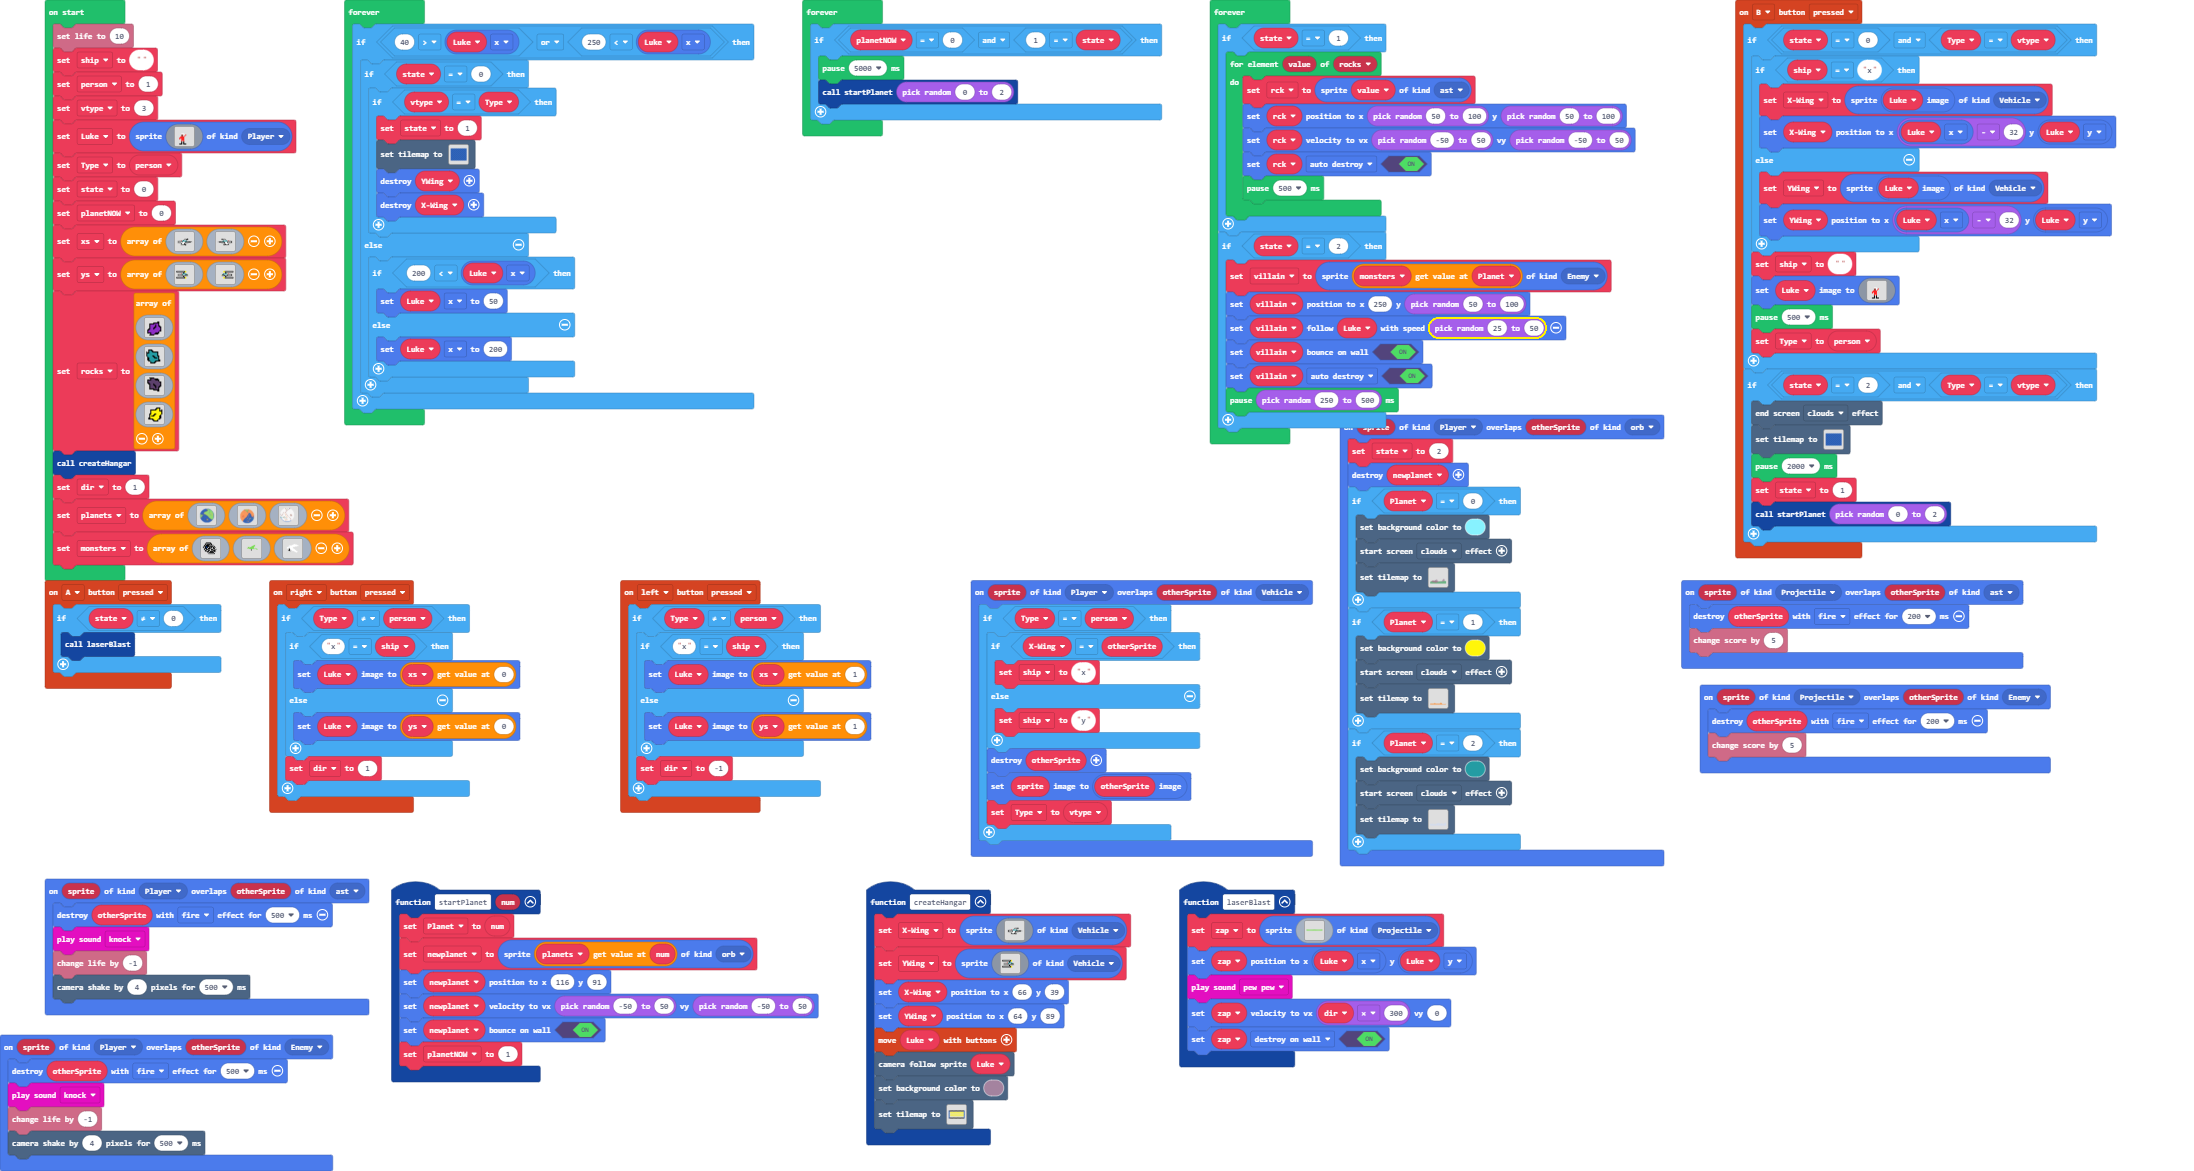
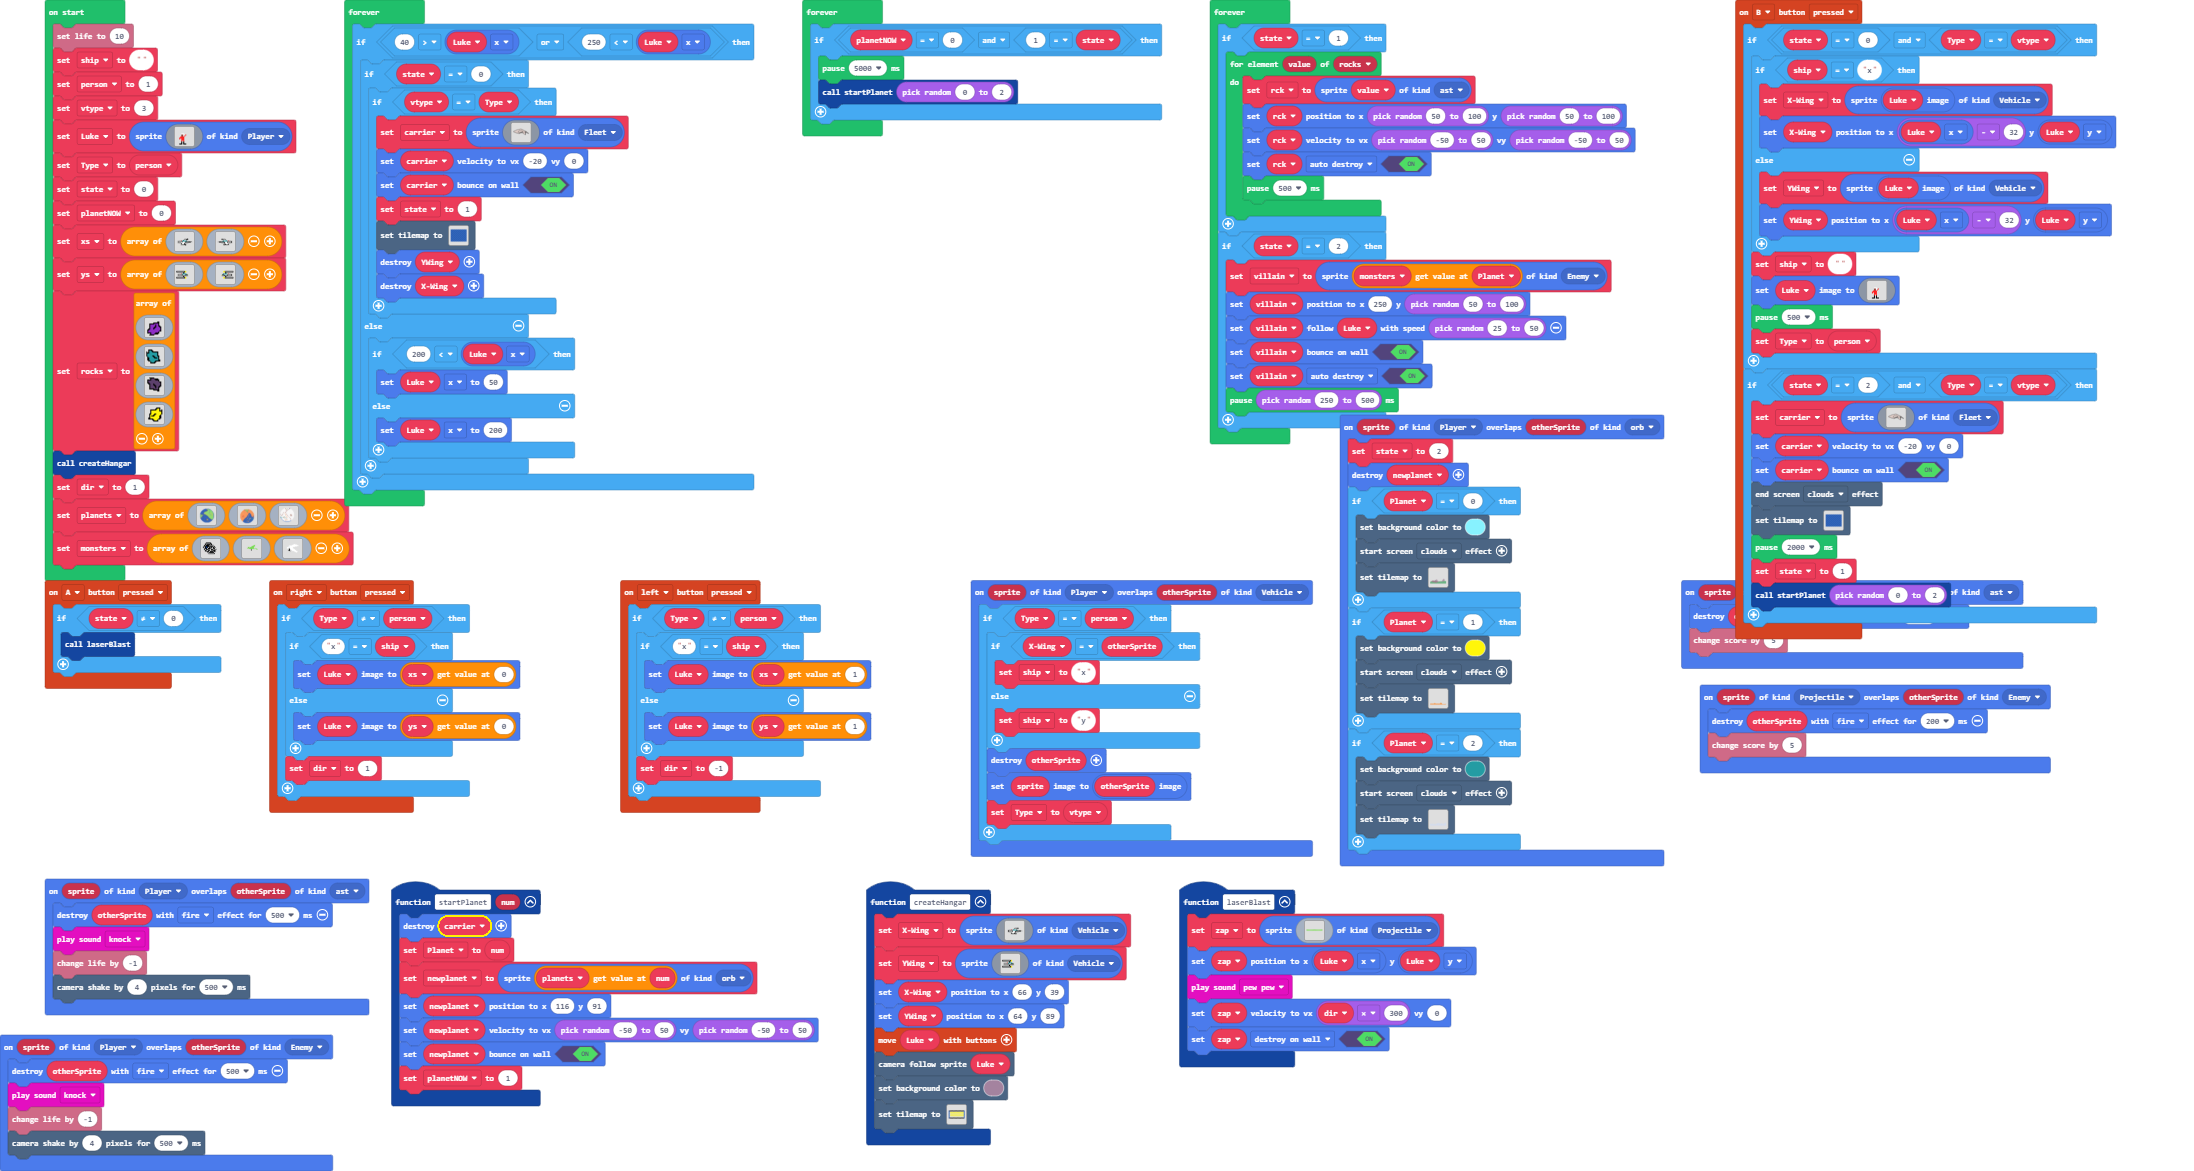
Update main.blocks, main.ts, tilemap.g.jres, tilemap.g.ts, images.g.jres, images.g.ts

diff --git a/images.g.ts b/images.g.ts
@@ -461,6 +461,39 @@ f 6 6 6 6 6 f f 6 6 6 f f . . .
 ................................
 ................................
 `;
+            case "image16":
+            case "FleetCarrier":return img`
+............................................................
+............................................................
+..........................fffff.............................
+.....................fffffdddddfff..........................
+................fffffdddddddddddddff........................
+.............fffddddddddddddddddddddff......................
+...........ffdddddddddddddddddddddddddff....................
+.........ffddddddddddddddffdddddddddddddff..................
+......fffddddddddddddddffddffffdddddddddddff................
+....ffddddddddddddddddfddddddddffffdddddddddff..............
+..ffdddddddddddddddddfdddddddddddddfffddddddddff............
+.fdddddddddddddddddffdddddddddddddddffdddddddddfff..........
+..ffddddddddddddddfdddddddddddddddffdddddddddddffff.........
+....ffdddddddddddddffddddddddddddfddddddffffffffddff........
+......fffddddddddddddfffddffffffffffffffddddddfffdddf.......
+.........fffddddddddddddff....fffffdddddddddddf..fff.ff.....
+............ffddddddddddddffff.....ffdddddddddf.....ff.f....
+..............ffffffddddff...........fddddddddf.......ffff..
+....................fffff.............ffddddddf..........ff.
+........................................fdddddf.............
+.........................................ffdddf.............
+...........................................fddf.............
+............................................fff.............
+..............................................f.............
+............................................................
+............................................................
+............................................................
+............................................................
+............................................................
+............................................................
+`;
         }
         return null;
     })

diff --git a/main.ts b/main.ts
@@ -2,6 +2,7 @@ namespace SpriteKind {
     export const Vehicle = SpriteKind.create()
     export const orb = SpriteKind.create()
     export const ast = SpriteKind.create()
+    export const Fleet = SpriteKind.create()
 }
 sprites.onOverlap(SpriteKind.Player, SpriteKind.Vehicle, function (sprite, otherSprite) {
     if (Type == person) {
@@ -30,6 +31,9 @@ controller.B.onEvent(ControllerButtonEvent.Pressed, function () {
         Type = person
     }
     if (state == 2 && Type == vtype) {
+        carrier = sprites.create(assets.image`FleetCarrier`, SpriteKind.Fleet)
+        carrier.setVelocity(-20, 0)
+        carrier.setBounceOnWall(true)
         effects.clouds.endScreenEffect()
         tiles.setTilemap(tilemap`space`)
         pause(2000)
@@ -53,6 +57,7 @@ controller.A.onEvent(ControllerButtonEvent.Pressed, function () {
     }
 })
 function startPlanet (num: number) {
+    carrier.destroy()
     Planet = num
     newplanet = sprites.create(planets[num], SpriteKind.orb)
     newplanet.setPosition(116, 91)
@@ -131,6 +136,7 @@ let rck: Sprite = null
 let zap: Sprite = null
 let newplanet: Sprite = null
 let Planet = 0
+let carrier: Sprite = null
 let YWing: Sprite = null
 let XWing: Sprite = null
 let planets: Image[] = []
@@ -168,6 +174,9 @@ forever(function () {
     if (40 > Luke.x || 250 < Luke.x) {
         if (state == 0) {
             if (vtype == Type) {
+                carrier = sprites.create(assets.image`FleetCarrier`, SpriteKind.Fleet)
+                carrier.setVelocity(-20, 0)
+                carrier.setBounceOnWall(true)
                 state = 1
                 tiles.setTilemap(tilemap`space`)
                 YWing.destroy()

diff --git a/tilemap.g.ts b/tilemap.g.ts
@@ -174,6 +174,25 @@ namespace myTiles {
 2222222222222222222222222222222222222222
 2222222222222222222222222222222222222222
 `, [myTiles.transparency16,myTiles.tile12], TileScale.Sixteen);
+            case "level2":
+            case "level2":return tiles.createTilemap(hex`1000100000000000000000000000000000000000000000000000000000000000000000000000000000000000000000000000000000000000000000000000000000000000000000000000000000000000000000000000000000000000000000000000000000000000000000000000000000000000000000000000000000000000000000000000000000000000000000000000000000000000000000000000000000000000000000000000000000000000000000000000000000000000000000000000000000000000000000000000000000000000000000000000000000000000000000000000000000000000000000000000000000000000000000000000000000000000`, img`
+. . . . . . . . . . . . . . . . 
+. . . . . . . . . . . . . . . . 
+. . . . . . . . . . . . . . . . 
+. . . . . . . . . . . . . . . . 
+. . . . . . . . . . . . . . . . 
+. . . . . . . . . . . . . . . . 
+. . . . . . . . . . . . . . . . 
+. . . . . . . . . . . . . . . . 
+. . . . . . . . . . . . . . . . 
+. . . . . . . . . . . . . . . . 
+. . . . . . . . . . . . . . . . 
+. . . . . . . . . . . . . . . . 
+. . . . . . . . . . . . . . . . 
+. . . . . . . . . . . . . . . . 
+. . . . . . . . . . . . . . . . 
+. . . . . . . . . . . . . . . . 
+`, [myTiles.transparency16], TileScale.Sixteen);
         }
         return null;
     })
